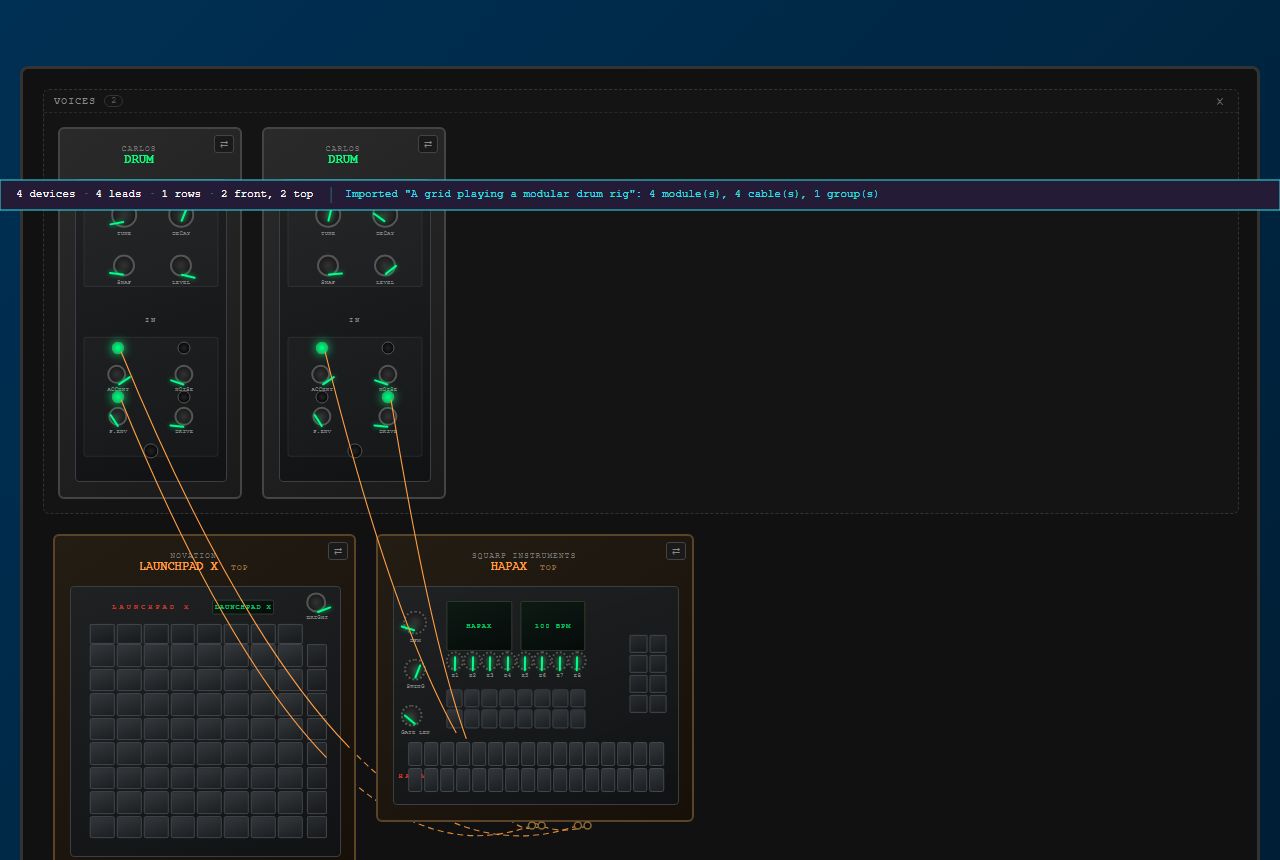
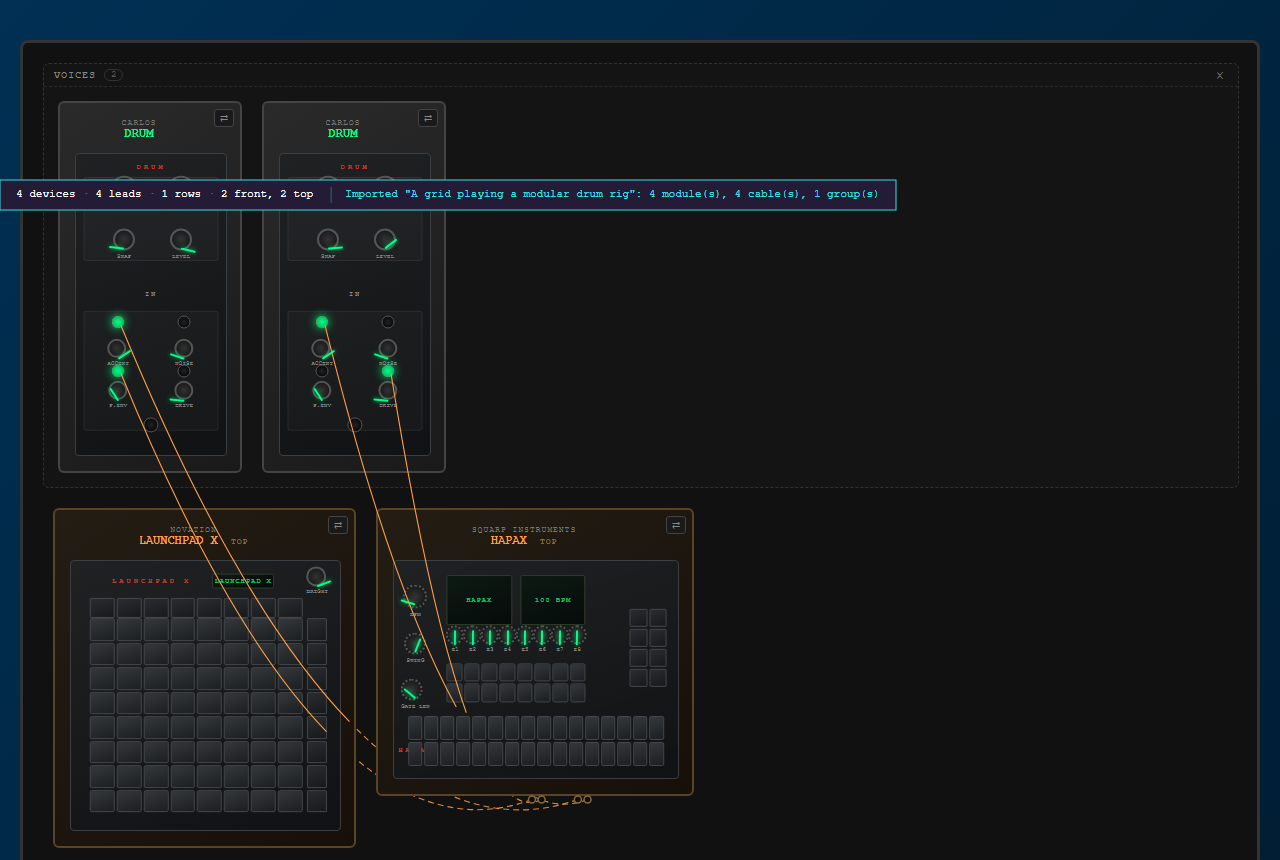
Detach the bar when it moves, so it stops walling off the rack
A bar is hit-tested by geometry rather than by what is under the pointer,
so a full-width strip claims every press at its own height. Docked along
the top that costs nothing — nothing else is up there. Moved into the
rack it was a wall: every knob and socket in that row belonged to the bar,
and the only thing moving it achieved was choosing which row to lose.

It detaches now. Docked it spans the window and the body reserves the
strip above the rack; floating it is a panel the width of what it says,
measured after drawing because the figures and the answer both change
width. It moves in both directions rather than only down, and dragging it
back to the top docks it again — the gesture that moves it is the gesture
that puts it back, so there is nothing to find in a menu.

A floating bar reserves nothing: it is over the rack by choice.

diff --git a/static/rad-menu.js b/static/rad-menu.js
@@ -21,6 +21,8 @@ const RAD_SVG_NS = 'http://www.w3.org/2000/svg';
 // ordinary press-and-drag that works the ring keeps its exact shape and never
 // has to know a second gesture exists.
 const RAD_BAR_HEIGHT = 30;
+// Drag it back within this of the top and it docks again.
+const RAD_BAR_DOCK_WITHIN = 26;
 const RAD_DOUBLE_TAP_MS = 320;
 const RAD_DOUBLE_TAP_SLOP = 24;
 
@@ -81,7 +83,20 @@ class RadMenu {
         // the rack is - and blooms into the ring itself only while held. That
         // is what keeps it out of the way: at rest it covers a strip nothing
         // is drawn in, rather than a corner of the rack.
+        // Docked, or floating.
+        //
+        // `barX` is `null` while the bar is docked along the top: it spans the
+        // window, sits in the strip above the rack, and the body reserves it.
+        // Move it and it detaches - a panel the width of what it says, which is
+        // the only shape that can go anywhere without being in the way.
+        //
+        // A full-width strip in the middle of a rack claims every press at that
+        // height, knobs and sockets included, because a bar is hit-tested by
+        // geometry rather than by what is under the pointer. Docked that costs
+        // nothing, since nothing else is up there. Moved, it was a wall.
+        this.barX = null;
         this.barY = 0;
+        this.barWidth = 0;
         this.lastBarTap = 0;
         this.moving = null;
         // What the app last answered, and whether anybody has held the bar yet.
@@ -157,10 +172,35 @@ class RadMenu {
         return !this.pinned || this.engaged;
     }
 
+    // The rack makes room for the bar only while the bar is docked along the
+    // top. A floating one is over the rack by choice and reserves nothing.
+    reserveStrip() {
+        if (!document.body?.setAttribute) return;
+        if (this.pinned && this.docked) {
+            document.body.setAttribute('data-ring', 'pinned');
+        } else {
+            document.body.removeAttribute('data-ring');
+        }
+    }
+
+    get docked() {
+        return this.barX === null;
+    }
+
     // The bar's box, in viewport coordinates.
     barBox() {
-        const width = (typeof window !== 'undefined' && window.innerWidth) || 0;
-        return { x: 0, y: this.barY, width, height: RAD_BAR_HEIGHT };
+        const window_ = (typeof window !== 'undefined' && window.innerWidth) || 0;
+        if (this.docked) {
+            return { x: 0, y: this.barY, width: window_, height: RAD_BAR_HEIGHT };
+        }
+        return {
+            x: this.barX,
+            y: this.barY,
+            // Until it has been drawn once there is nothing to measure, so it
+            // starts at a width that holds a line and settles on the real one.
+            width: this.barWidth || 320,
+            height: RAD_BAR_HEIGHT,
+        };
     }
 
     // Is this press on the bar? Asked of the geometry for the same reason the
@@ -327,7 +367,13 @@ class RadMenu {
             // enough that it can never be reached by accident from the press
             // that opens the ring, which is rad-android's whole reason for
             // putting reposition behind this gesture rather than a drag.
-            this.moving = { from: event.clientY, at: this.barY };
+            const box = this.barBox();
+            this.moving = {
+                fromX: event.clientX,
+                fromY: event.clientY,
+                atX: this.docked ? box.x : this.barX,
+                atY: this.barY,
+            };
             this.layer?.classList.add('is-moving');
             event.preventDefault();
             return;
@@ -399,7 +445,19 @@ class RadMenu {
 
     onPointerMove(event) {
         if (this.moving) {
-            this.barY = Math.max(0, this.moving.at + (event.clientY - this.moving.from));
+            const x = this.moving.atX + (event.clientX - this.moving.fromX);
+            const y = this.moving.atY + (event.clientY - this.moving.fromY);
+
+            // Back to the top edge and it docks again: the one gesture that
+            // moves it is the one that puts it back, so there is nothing to
+            // find in a menu.
+            if (y <= RAD_BAR_DOCK_WITHIN) {
+                this.barX = null;
+                this.barY = 0;
+            } else {
+                this.barX = x;
+                this.barY = y;
+            }
             this.render();
             return;
         }
@@ -415,6 +473,7 @@ class RadMenu {
             this.moving = null;
             this.layer?.classList.remove('is-moving');
             if (this.onBarMoved) this.onBarMoved(this.barY);
+            this.reserveStrip();
             this.render();
             return;
         }
@@ -594,7 +653,7 @@ class RadMenu {
         if (this.layer) this.layer.classList.add('is-pinned');
         // The rack makes room for the bar. It is the one thing that gets any of
         // the navy the rack floats in.
-        document.body?.setAttribute?.('data-ring', 'pinned');
+        this.reserveStrip();
         // Resolve *after* the flag, not before. `openAt` resolves as it opens,
         // and at that moment this ring was still unpinned - so the menu it
         // built offered to pin a ring that already was, and there was no way
@@ -628,6 +687,9 @@ class RadMenu {
         this.layer.setAttribute('aria-label', 'Rack');
 
         const box = this.barBox();
+        this.layer.classList.toggle('is-docked', this.docked);
+        this.layer.classList.toggle('is-floating', !this.docked);
+
         const bar = document.createElementNS(RAD_SVG_NS, 'rect');
         bar.setAttribute('x', box.x);
         bar.setAttribute('y', box.y);
@@ -648,8 +710,9 @@ class RadMenu {
         const facts = this.readout ? this.readout() : '';
         const said = this.saidLately || '';
 
+        const left = box.x + 16;
         const text = document.createElementNS(RAD_SVG_NS, 'text');
-        text.setAttribute('x', 16);
+        text.setAttribute('x', left);
         text.setAttribute('y', middle);
         text.setAttribute('class', 'rad-bar-text');
         text.setAttribute('id', 'rad-bar-text');
@@ -676,7 +739,8 @@ class RadMenu {
         const measured = typeof text.getComputedTextLength === 'function'
             ? text.getComputedTextLength()
             : 0;
-        let next = 16 + (measured || 300) + 18;
+        let next = left + (measured || 300) + 18;
+        let end = next;
 
         if (said) {
             const rule = document.createElementNS(RAD_SVG_NS, 'line');
@@ -689,12 +753,17 @@ class RadMenu {
 
             const answer = document.createElementNS(RAD_SVG_NS, 'text');
             answer.setAttribute('x', next + 14);
+            end = next + 14;
             answer.setAttribute('y', middle);
             answer.setAttribute('class', 'rad-bar-said');
             answer.setAttribute('id', 'rad-bar-said');
             answer.setAttribute('aria-hidden', 'true');
             answer.textContent = said;
             this.layer.appendChild(answer);
+            const saidWide = typeof answer.getComputedTextLength === 'function'
+                ? answer.getComputedTextLength()
+                : 0;
+            end = next + 14 + (saidWide || 200);
         }
 
         // The hint retires itself. It is worth a strip of the bar exactly until
@@ -702,13 +771,32 @@ class RadMenu {
         // they already know how to open.
         if (!this.hintLearned) {
             const hint = document.createElementNS(RAD_SVG_NS, 'text');
-            hint.setAttribute('x', box.width - 16);
+            // Far right while docked, where there is a window's worth of room.
+            // Straight after the rest while floating, where there is not.
+            hint.setAttribute('x', this.docked ? box.x + box.width - 16 : end + 18);
             hint.setAttribute('y', middle);
             hint.setAttribute('class', 'rad-bar-hint');
             hint.setAttribute('id', 'rad-bar-hint');
             hint.setAttribute('aria-hidden', 'true');
+            hint.setAttribute('text-anchor', this.docked ? 'end' : 'start');
             hint.textContent = 'hold for the menu';
             this.layer.appendChild(hint);
+
+            const hintWide = typeof hint.getComputedTextLength === 'function'
+                ? hint.getComputedTextLength()
+                : 0;
+            if (!this.docked) end += 18 + (hintWide || 110);
+        }
+
+        // Floating, the bar is the width of what it says. Measured after
+        // drawing because the figures and the answer both change width, and a
+        // panel wider than its contents is a panel taking room it is not using.
+        if (!this.docked) {
+            const wide = Math.round(end - box.x + 16);
+            if (wide !== this.barWidth) {
+                this.barWidth = wide;
+                bar.setAttribute('width', wide);
+            }
         }
         return this.layer;
     }

diff --git a/tests/browser/test_the_rack.py b/tests/browser/test_the_rack.py
@@ -377,21 +377,106 @@ class TestTheBar:
             timeout=5_000)
         assert page.locator("#view-indicator").inner_text() != facing
 
-    def test_double_tap_and_drag_moves_it(self, page):
-        # rad-android's own reposition gesture, chosen so the press that works
-        # the ring keeps its exact shape and never has to know this exists.
+    def move(self, page, dx, dy, steps=10):
+        """Double-tap the bar and drag it."""
         start = self.bar(page).bounding_box()
-        x, y = 500, start["y"] + start["height"] / 2
-
+        x = start["x"] + 60
+        y = start["y"] + start["height"] / 2
         page.mouse.move(x, y)
         page.mouse.down()
         page.mouse.up()
         page.mouse.down()
-        page.mouse.move(x, y + 180, steps=10)
+        page.mouse.move(x + dx, y + dy, steps=steps)
         page.mouse.up()
+        page.wait_for_timeout(150)
+        return start
 
-        moved = self.bar(page).bounding_box()
-        assert round(moved["y"] - start["y"]) == 180
+    def test_double_tap_and_drag_moves_it(self, page):
+        # rad-android's own reposition gesture, chosen so the press that works
+        # the ring keeps its exact shape and never has to know this exists.
+        start = self.move(page, 0, 180)
+        assert round(self.bar(page).bounding_box()["y"] - start["y"]) == 180
+
+    def test_docked_it_spans_the_window(self, page):
+        assert page.locator(".rad-layer.is-docked").count() == 1
+        box = self.bar(page).bounding_box()
+        assert box["width"] >= page.viewport_size["width"] - 1
+
+    def test_moved_it_becomes_a_panel_the_size_of_what_it_says(self, page):
+        # A full-width strip in the middle of a rack claims every press at that
+        # height - knobs and sockets included, because a bar is hit-tested by
+        # geometry rather than by what is under the pointer. Docked that costs
+        # nothing. Moved, it was a wall.
+        self.move(page, 220, 400)
+        box = self.bar(page).bounding_box()
+        assert page.locator(".rad-layer.is-floating").count() == 1
+        assert box["width"] < page.viewport_size["width"] / 2
+        assert box["x"] > 0
+
+    def test_it_stops_claiming_the_whole_row_it_sits_in(self, page):
+        # The bug this fixes, asked the way the bar itself asks it. A press is
+        # the bar's when it lands inside the bar - and while it spanned the
+        # window, that was every press at that height, knobs and sockets
+        # included.
+        self.move(page, 300, 400)
+        box = self.bar(page).bounding_box()
+        middle = box["y"] + box["height"] / 2
+
+        claims = page.evaluate(
+            "([x, y]) => radMenu.aimedAtBar(x, y)", [box["x"] + 40, middle])
+        assert claims, "it does not claim a press on itself"
+
+        for beside in (20, box["x"] - 40, box["x"] + box["width"] + 40):
+            assert not page.evaluate(
+                "([x, y]) => radMenu.aimedAtBar(x, y)", [beside, middle]), (
+                f"still claims x={beside} at its own height")
+
+    def test_the_rack_answers_beside_a_floated_bar(self, page):
+        # And the other half of it: something on the rack at that height is
+        # still something you can point at.
+        self.move(page, 300, 400)
+        box = self.bar(page).bounding_box()
+        middle = box["y"] + box["height"] / 2
+
+        found = page.evaluate(
+            """(y) => {
+                for (let x = 20; x < window.innerWidth; x += 20) {
+                    const el = document.elementFromPoint(x, y);
+                    if (el && el.closest('.module')) return true;
+                }
+                return false;
+            }""", middle)
+        assert found, "nothing on the rack is reachable at the bar's height"
+
+    def test_moving_it_gives_the_strip_back(self, page):
+        assert page.evaluate(
+            "() => getComputedStyle(document.body).paddingTop") == "46px"
+        self.move(page, 200, 400)
+        assert page.evaluate(
+            "() => getComputedStyle(document.body).paddingTop") != "46px"
+
+    def test_dragging_it_to_the_top_docks_it_again(self, page):
+        # The gesture that moves it is the gesture that puts it back, so there
+        # is nothing to find in a menu.
+        self.move(page, 200, 400)
+        assert page.locator(".rad-layer.is-floating").count() == 1
+
+        box = self.bar(page).bounding_box()
+        x = box["x"] + 60
+        y = box["y"] + box["height"] / 2
+        page.mouse.move(x, y)
+        page.mouse.down()
+        page.mouse.up()
+        page.mouse.down()
+        page.mouse.move(x, 6, steps=8)
+        page.mouse.up()
+        page.wait_for_timeout(150)
+
+        assert page.locator(".rad-layer.is-docked").count() == 1
+        assert self.bar(page).bounding_box()["width"] >= (
+            page.viewport_size["width"] - 1)
+        assert page.evaluate(
+            "() => getComputedStyle(document.body).paddingTop") == "46px"
 
     def test_one_tap_does_not_move_it(self, page):
         start = self.bar(page).bounding_box()

diff --git a/docs/rad-integration.md b/docs/rad-integration.md
@@ -164,7 +164,14 @@ Three gestures, and nothing else:
   letting go committed `Add` every time.
 - **Double-tap and drag** moves it. rad-android's own reposition gesture, behind
   a deliberate second press so the press that works the ring keeps its exact
-  shape and never has to know this exists.
+  shape and never has to know this exists. Moving it detaches it: docked it
+  spans the window, floating it is a panel the width of what it says, and
+  dragging it back to the top docks it again.
+
+  The two shapes are not cosmetic. A bar is hit-tested by geometry rather than
+  by what is under the pointer, so a full-width strip claims every press at its
+  own height. Along the top that costs nothing; anywhere else it was a wall
+  across the rack, taking knobs and sockets with it.
 - **Everything else belongs to the rack.** A ring that simply stayed open owned
   the keyboard and swallowed every click for as long as it was up: arrows
   stopped reaching knobs, Enter stopped patching, Escape stopped deselecting. A

diff --git a/walkthrough/05-in-the-browser.md b/walkthrough/05-in-the-browser.md
@@ -330,6 +330,14 @@ Double-tap it and drag, and it moves — rad-android's own reposition gesture,
 behind a deliberate second press so the one that works the ring keeps its exact
 shape and never has to know this exists.
 
+Moving it **detaches** it: docked it spans the window, and floating it is a panel
+the width of what it says. That is not decoration. A bar is hit-tested by
+geometry rather than by what is under the pointer, so a full-width strip in the
+middle of a rack claimed every press at that height — knobs and sockets included.
+Docked along the top that costs nothing, because nothing else is up there. Moved,
+it was a wall. Dragging it back to the top docks it again, so the gesture that
+moves it is the gesture that puts it back.
+
 ```python
 >>> before = page.locator('.rad-bar').bounding_box()
 >>> _ = page.mouse.move(500, 15)
